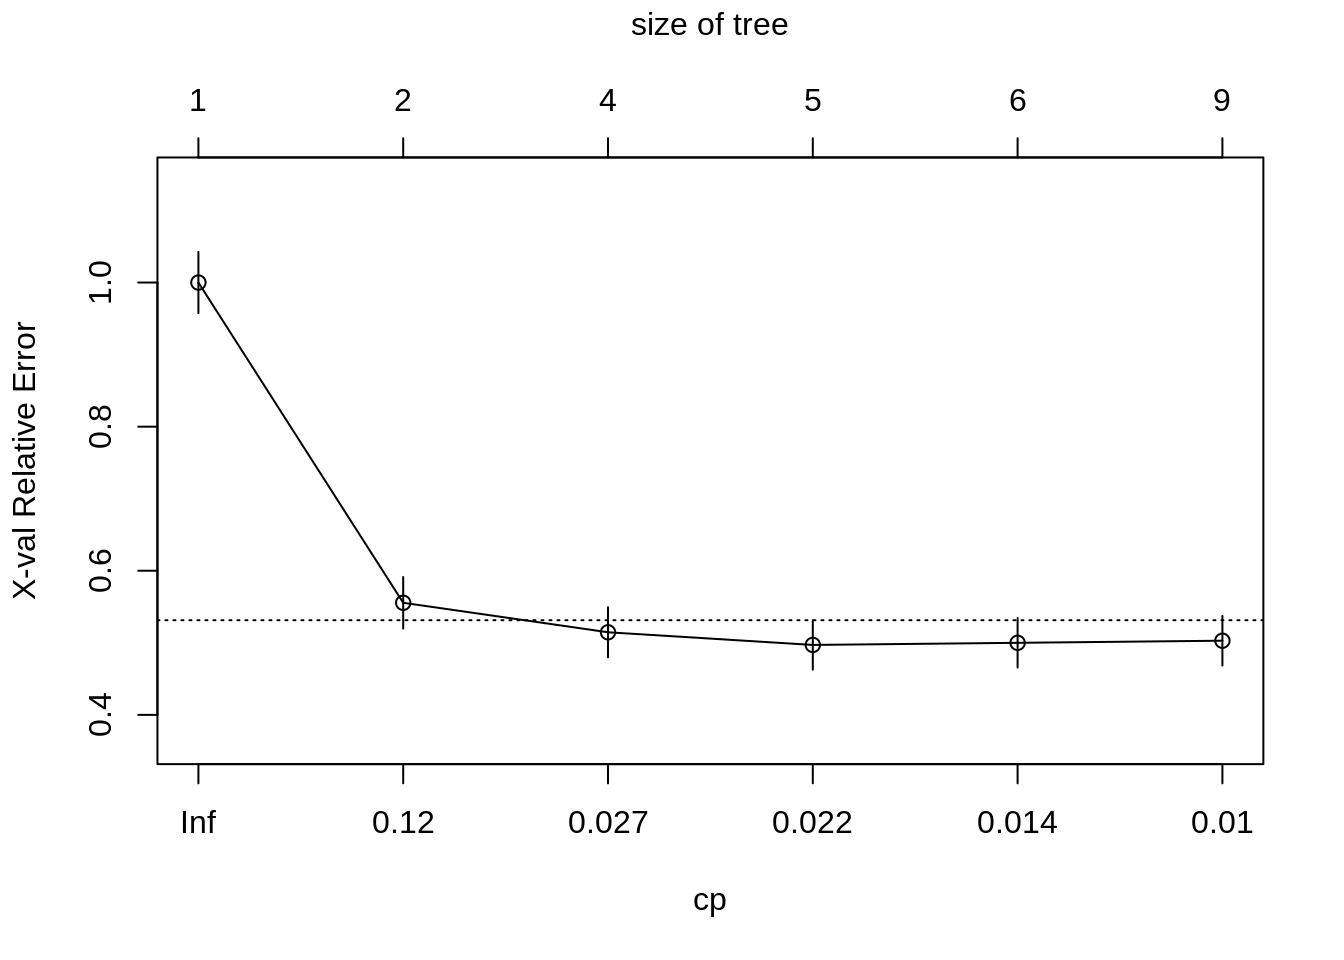
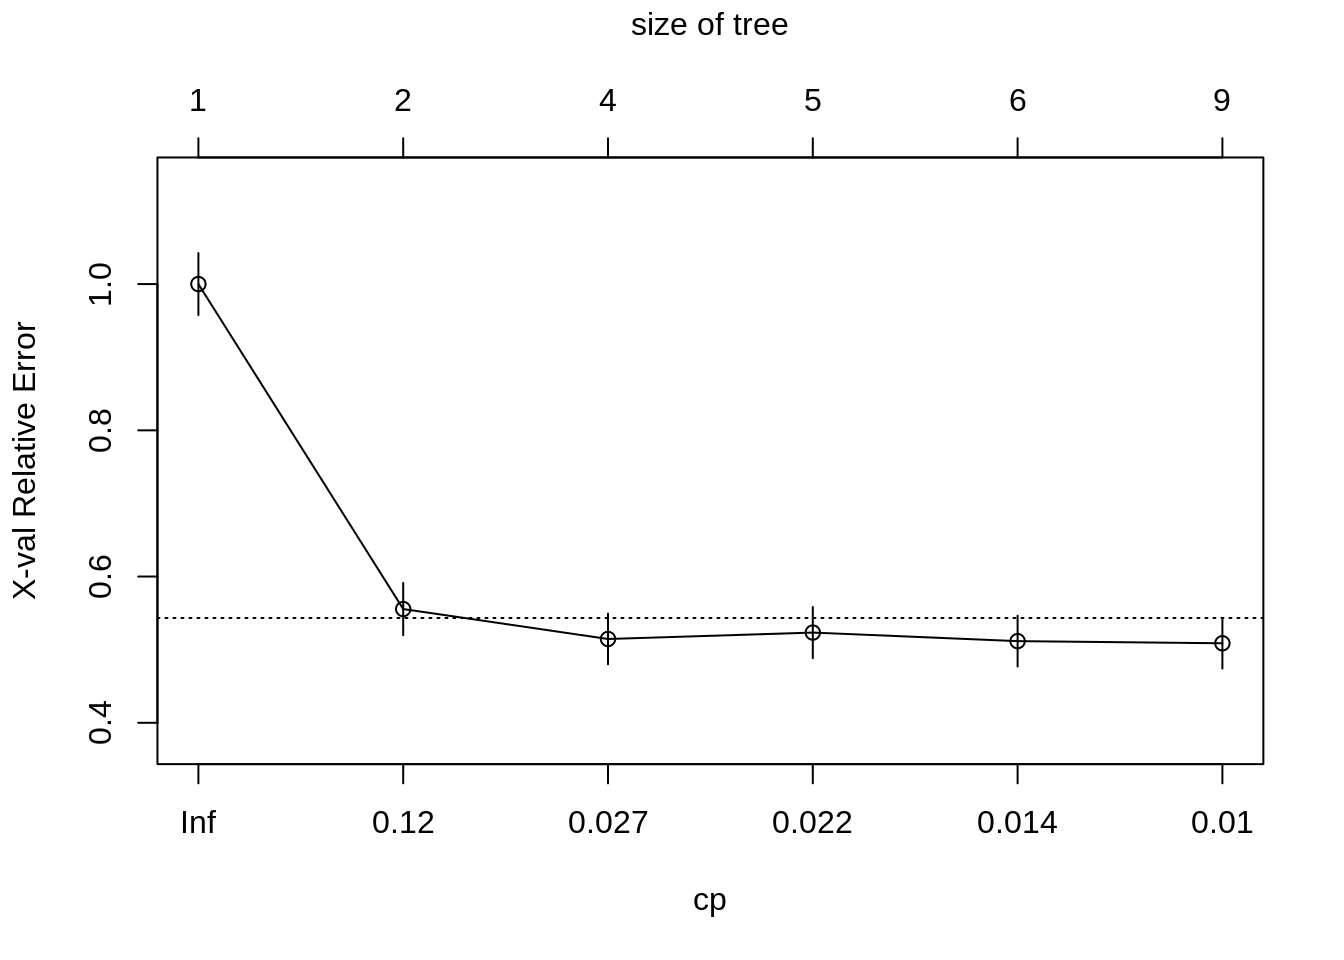
Deploy lebebr01/stat_thinking to github.com/lebebr01/stat_thinking.git:master

diff --git a/docs/classification.html b/docs/classification.html
@@ -330,9 +330,9 @@ titanic &lt;-<span class="st"> </span><span class="kw">bind_rows</span>(titanic_
 ## 1 0.444444      0   1.00000 1.00000 0.042446
 ## 2 0.030702      1   0.55556 0.55556 0.035750
 ## 3 0.023392      3   0.49415 0.51462 0.034749
-## 4 0.020468      4   0.47076 0.49708 0.034295
-## 5 0.010234      5   0.45029 0.50000 0.034372
-## 6 0.010000      8   0.41813 0.50292 0.034448</code></pre>
+## 4 0.020468      4   0.47076 0.52339 0.034970
+## 5 0.010234      5   0.45029 0.51170 0.034675
+## 6 0.010000      8   0.41813 0.50877 0.034599</code></pre>
 <div class="sourceCode"><pre class="sourceCode r"><code class="sourceCode r"><span class="kw">plotcp</span>(class_tree)</code></pre></div>
 <p><img src="05-classification_files/figure-html/unnamed-chunk-6-1.png" width="672" /></p>
 <div class="sourceCode"><pre class="sourceCode r"><code class="sourceCode r">prune_class_tree &lt;-<span class="st"> </span><span class="kw">prune</span>(class_tree, <span class="dt">cp =</span> .<span class="dv">02</span>)

diff --git a/docs/05-classification.md b/docs/05-classification.md
@@ -250,9 +250,9 @@ printcp(class_tree)
 ## 1 0.444444      0   1.00000 1.00000 0.042446
 ## 2 0.030702      1   0.55556 0.55556 0.035750
 ## 3 0.023392      3   0.49415 0.51462 0.034749
-## 4 0.020468      4   0.47076 0.49708 0.034295
-## 5 0.010234      5   0.45029 0.50000 0.034372
-## 6 0.010000      8   0.41813 0.50292 0.034448
+## 4 0.020468      4   0.47076 0.52339 0.034970
+## 5 0.010234      5   0.45029 0.51170 0.034675
+## 6 0.010000      8   0.41813 0.50877 0.034599
 ```
 
 ```r
